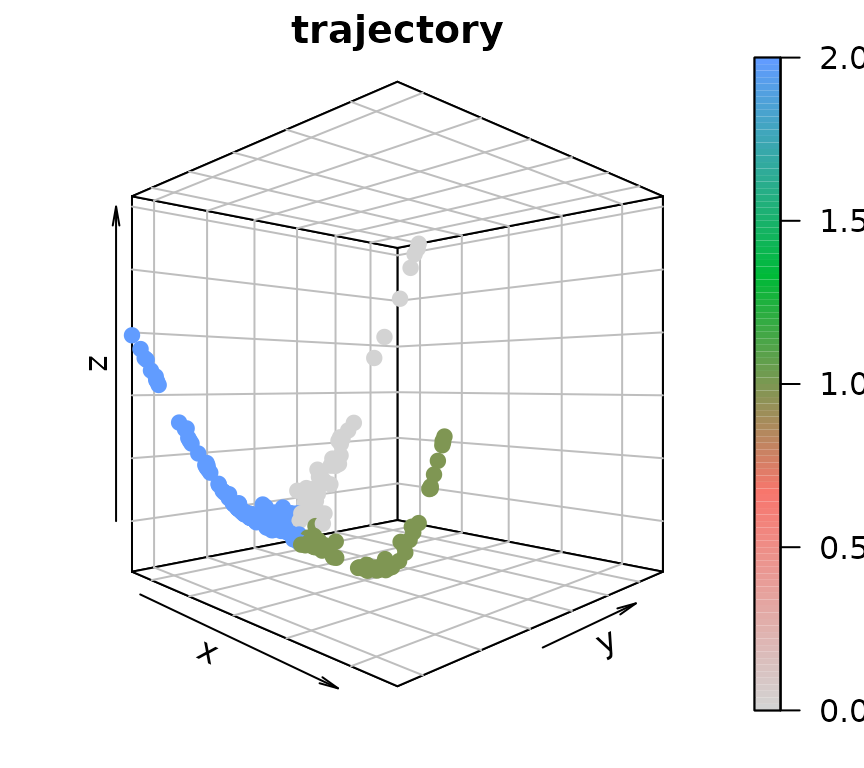
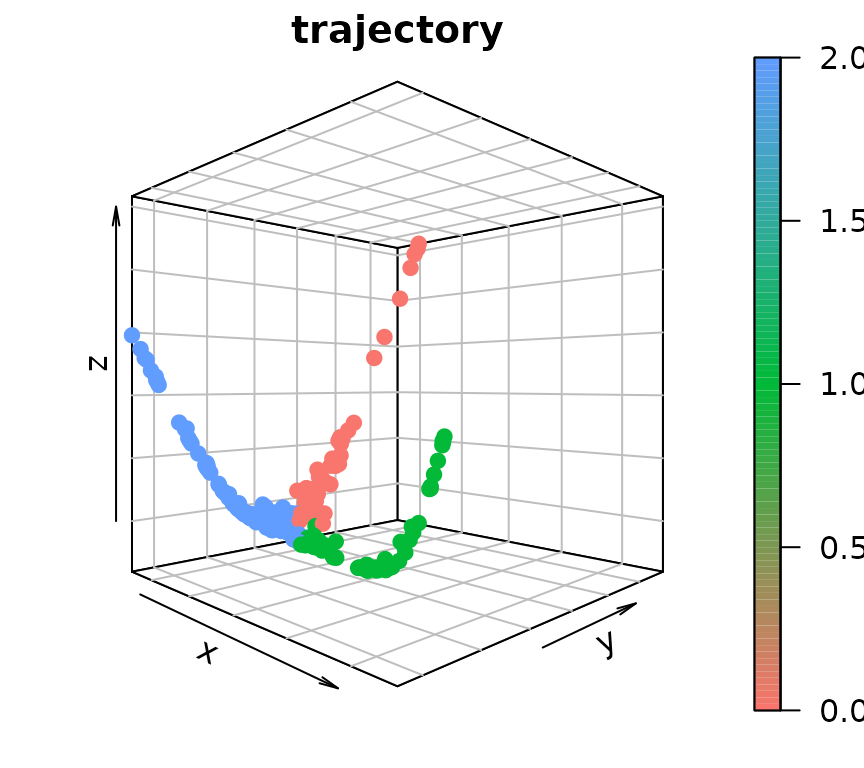
“update”

diff --git a/docs/articles/GeneTrajectory.html b/docs/articles/GeneTrajectory.html
@@ -141,7 +141,7 @@ R package which includes: library normalization; finding variable
 features; scaling; generating PCA embedding (and UMAP embedding for
 visualization).</p>
 <p>The precomplied Seurat object for this tutorial can be downloaded
-from <a href="https://figshare.com/articles/dataset/Processed_Seurat_objects_for_GeneTrajectory_inference_Gene_Trajectory_Inference_for_Single-cell_Data_by_Optimal_Transport_Metrics_/25243225" class="external-link">figshare</a></p>
+from <a href="https://figshare.com/articles/dataset/Processed_Seurat_objects_for_GeneTrajectory_inference_Gene_Trajectory_Inference_for_Single-cell_Data_by_Optimal_Transport_Metrics_/25243225" class="external-link">figshare</a>.</p>
 <div class="sourceCode" id="cb2"><pre class="downlit sourceCode r">
 <code class="sourceCode R"><span><span class="co">##### Import the tutorial dataset and take a preliminary visualization</span></span>
 <span><span class="va">data_S</span> <span class="op">&lt;-</span> <span class="fu"><a href="https://rdrr.io/r/base/readRDS.html" class="external-link">readRDS</a></span><span class="op">(</span><span class="st">"/banach1/rq25/GeneTrajectory_data/data_S_MM_v2.rds"</span><span class="op">)</span></span>
@@ -249,7 +249,7 @@ visualization can be done using the following code.</p>
 <span>          <span class="va">gene_embedding</span><span class="op">[</span>,<span class="fl">3</span><span class="op">]</span>,</span>
 <span>          bty <span class="op">=</span> <span class="st">"b2"</span>, colvar <span class="op">=</span> <span class="fu"><a href="https://rdrr.io/r/base/integer.html" class="external-link">as.integer</a></span><span class="op">(</span><span class="fu"><a href="https://rdrr.io/r/base/factor.html" class="external-link">as.factor</a></span><span class="op">(</span><span class="va">gene_trajectory</span><span class="op">$</span><span class="va">selected</span><span class="op">)</span><span class="op">)</span><span class="op">-</span><span class="fl">1</span>,</span>
 <span>          main <span class="op">=</span> <span class="st">"trajectory"</span>, pch <span class="op">=</span> <span class="fl">19</span>, cex <span class="op">=</span> <span class="fl">1</span>, theta <span class="op">=</span> <span class="fl">45</span>, phi <span class="op">=</span> <span class="fl">0</span>,</span>
-<span>          col <span class="op">=</span> <span class="fu"><a href="https://rdrr.io/pkg/plot3D/man/colors.html" class="external-link">ramp.col</a></span><span class="op">(</span><span class="fu"><a href="https://rdrr.io/r/base/c.html" class="external-link">c</a></span><span class="op">(</span><span class="st">"lightgray"</span>, <span class="fu"><a href="https://scales.r-lib.org/reference/hue_pal.html" class="external-link">hue_pal</a></span><span class="op">(</span><span class="op">)</span><span class="op">(</span><span class="fl">3</span><span class="op">)</span><span class="op">)</span><span class="op">)</span><span class="op">)</span></span></code></pre></div>
+<span>          col <span class="op">=</span> <span class="fu"><a href="https://rdrr.io/pkg/plot3D/man/colors.html" class="external-link">ramp.col</a></span><span class="op">(</span><span class="fu"><a href="https://rdrr.io/r/base/c.html" class="external-link">c</a></span><span class="op">(</span><span class="fu"><a href="https://scales.r-lib.org/reference/hue_pal.html" class="external-link">hue_pal</a></span><span class="op">(</span><span class="op">)</span><span class="op">(</span><span class="fl">3</span><span class="op">)</span><span class="op">)</span><span class="op">)</span><span class="op">)</span></span></code></pre></div>
 <p><img src="GeneTrajectory_files/figure-html/unnamed-chunk-7-1.png" width="432"></p>
 <div class="sourceCode" id="cb20"><pre class="downlit sourceCode r">
 <code class="sourceCode R"><span><span class="va">gene_list</span> <span class="op">&lt;-</span> <span class="fu"><a href="https://rdrr.io/r/base/list.html" class="external-link">list</a></span><span class="op">(</span><span class="op">)</span></span>
@@ -270,7 +270,19 @@ regions in the cell embedding. Here, we would recommend users to apply
 <a href="https://github.com/KlugerLab/ALRA/blob/master/README.md" class="external-link">ALRA</a>
 imputation to smooth the expression values for generating gene bin
 plots.</p>
-<p><img src="GeneTrajectory_files/figure-html/unnamed-chunk-8-1.png" width="1152"><img src="GeneTrajectory_files/figure-html/unnamed-chunk-8-2.png" width="1152"><img src="GeneTrajectory_files/figure-html/unnamed-chunk-8-3.png" width="1152"></p>
+<div class="sourceCode" id="cb21"><pre class="downlit sourceCode r">
+<code class="sourceCode R"><span><span class="va">data_S</span> <span class="op">&lt;-</span> <span class="fu"><a href="../reference/AddGeneBinScore.html">AddGeneBinScore</a></span><span class="op">(</span><span class="va">data_S</span>, <span class="va">gene_trajectory</span>, N.bin <span class="op">=</span> <span class="fl">5</span>, trajectories <span class="op">=</span> <span class="fl">1</span><span class="op">:</span><span class="fl">3</span>, assay <span class="op">=</span> <span class="st">"alra"</span>, reverse <span class="op">=</span> <span class="fu"><a href="https://rdrr.io/r/base/c.html" class="external-link">c</a></span><span class="op">(</span><span class="cn">F</span>, <span class="cn">F</span>, <span class="cn">T</span><span class="op">)</span><span class="op">)</span></span>
+<span><span class="fu"><a href="https://satijalab.org/seurat/reference/FeaturePlot.html" class="external-link">FeaturePlot</a></span><span class="op">(</span><span class="va">data_S</span>, pt.size <span class="op">=</span> <span class="fl">0.05</span>, features <span class="op">=</span> <span class="fu"><a href="https://rdrr.io/r/base/paste.html" class="external-link">paste0</a></span><span class="op">(</span><span class="st">"Trajectory"</span>,<span class="fl">1</span>,<span class="st">"_genes"</span>, <span class="fl">1</span><span class="op">:</span><span class="fl">5</span><span class="op">)</span>, ncol <span class="op">=</span> <span class="fl">5</span>, order <span class="op">=</span> <span class="cn">T</span><span class="op">)</span> <span class="op">&amp;</span></span>
+<span>  <span class="fu"><a href="https://ggplot2.tidyverse.org/reference/scale_gradient.html" class="external-link">scale_color_gradientn</a></span><span class="op">(</span>colors <span class="op">=</span> <span class="fu"><a href="https://rdrr.io/r/base/rev.html" class="external-link">rev</a></span><span class="op">(</span><span class="fu"><a href="https://scales.r-lib.org/reference/brewer_pal.html" class="external-link">brewer_pal</a></span><span class="op">(</span>palette <span class="op">=</span> <span class="st">"RdYlBu"</span><span class="op">)</span><span class="op">(</span><span class="fl">10</span><span class="op">)</span><span class="op">)</span><span class="op">)</span> <span class="op">&amp;</span> <span class="fu"><a href="https://satijalab.org/seurat/reference/SeuratTheme.html" class="external-link">NoLegend</a></span><span class="op">(</span><span class="op">)</span> <span class="op">&amp;</span> <span class="fu"><a href="https://satijalab.org/seurat/reference/SeuratTheme.html" class="external-link">NoAxes</a></span><span class="op">(</span><span class="op">)</span> <span class="op">&amp;</span> <span class="fu"><a href="https://ggplot2.tidyverse.org/reference/theme.html" class="external-link">theme</a></span><span class="op">(</span>title <span class="op">=</span> <span class="fu"><a href="https://ggplot2.tidyverse.org/reference/element.html" class="external-link">element_text</a></span><span class="op">(</span>size <span class="op">=</span> <span class="fl">8</span><span class="op">)</span><span class="op">)</span></span></code></pre></div>
+<p><img src="GeneTrajectory_files/figure-html/unnamed-chunk-8-1.png" width="1152"></p>
+<div class="sourceCode" id="cb22"><pre class="downlit sourceCode r">
+<code class="sourceCode R"><span><span class="fu"><a href="https://satijalab.org/seurat/reference/FeaturePlot.html" class="external-link">FeaturePlot</a></span><span class="op">(</span><span class="va">data_S</span>, pt.size <span class="op">=</span> <span class="fl">0.05</span>, features <span class="op">=</span> <span class="fu"><a href="https://rdrr.io/r/base/paste.html" class="external-link">paste0</a></span><span class="op">(</span><span class="st">"Trajectory"</span>,<span class="fl">2</span>,<span class="st">"_genes"</span>, <span class="fl">1</span><span class="op">:</span><span class="fl">5</span><span class="op">)</span>, ncol <span class="op">=</span> <span class="fl">5</span>, order <span class="op">=</span> <span class="cn">T</span><span class="op">)</span> <span class="op">&amp;</span></span>
+<span>  <span class="fu"><a href="https://ggplot2.tidyverse.org/reference/scale_gradient.html" class="external-link">scale_color_gradientn</a></span><span class="op">(</span>colors <span class="op">=</span> <span class="fu"><a href="https://rdrr.io/r/base/rev.html" class="external-link">rev</a></span><span class="op">(</span><span class="fu"><a href="https://scales.r-lib.org/reference/brewer_pal.html" class="external-link">brewer_pal</a></span><span class="op">(</span>palette <span class="op">=</span> <span class="st">"RdYlBu"</span><span class="op">)</span><span class="op">(</span><span class="fl">10</span><span class="op">)</span><span class="op">)</span><span class="op">)</span> <span class="op">&amp;</span> <span class="fu"><a href="https://satijalab.org/seurat/reference/SeuratTheme.html" class="external-link">NoLegend</a></span><span class="op">(</span><span class="op">)</span> <span class="op">&amp;</span> <span class="fu"><a href="https://satijalab.org/seurat/reference/SeuratTheme.html" class="external-link">NoAxes</a></span><span class="op">(</span><span class="op">)</span> <span class="op">&amp;</span> <span class="fu"><a href="https://ggplot2.tidyverse.org/reference/theme.html" class="external-link">theme</a></span><span class="op">(</span>title <span class="op">=</span> <span class="fu"><a href="https://ggplot2.tidyverse.org/reference/element.html" class="external-link">element_text</a></span><span class="op">(</span>size <span class="op">=</span> <span class="fl">8</span><span class="op">)</span><span class="op">)</span></span></code></pre></div>
+<p><img src="GeneTrajectory_files/figure-html/unnamed-chunk-8-2.png" width="1152"></p>
+<div class="sourceCode" id="cb23"><pre class="downlit sourceCode r">
+<code class="sourceCode R"><span><span class="fu"><a href="https://satijalab.org/seurat/reference/FeaturePlot.html" class="external-link">FeaturePlot</a></span><span class="op">(</span><span class="va">data_S</span>, pt.size <span class="op">=</span> <span class="fl">0.05</span>, features <span class="op">=</span> <span class="fu"><a href="https://rdrr.io/r/base/paste.html" class="external-link">paste0</a></span><span class="op">(</span><span class="st">"Trajectory"</span>,<span class="fl">3</span>,<span class="st">"_genes"</span>, <span class="fl">1</span><span class="op">:</span><span class="fl">5</span><span class="op">)</span>, ncol <span class="op">=</span> <span class="fl">5</span>, order <span class="op">=</span> <span class="cn">T</span><span class="op">)</span> <span class="op">&amp;</span></span>
+<span>  <span class="fu"><a href="https://ggplot2.tidyverse.org/reference/scale_gradient.html" class="external-link">scale_color_gradientn</a></span><span class="op">(</span>colors <span class="op">=</span> <span class="fu"><a href="https://rdrr.io/r/base/rev.html" class="external-link">rev</a></span><span class="op">(</span><span class="fu"><a href="https://scales.r-lib.org/reference/brewer_pal.html" class="external-link">brewer_pal</a></span><span class="op">(</span>palette <span class="op">=</span> <span class="st">"RdYlBu"</span><span class="op">)</span><span class="op">(</span><span class="fl">10</span><span class="op">)</span><span class="op">)</span><span class="op">)</span> <span class="op">&amp;</span> <span class="fu"><a href="https://satijalab.org/seurat/reference/SeuratTheme.html" class="external-link">NoLegend</a></span><span class="op">(</span><span class="op">)</span> <span class="op">&amp;</span> <span class="fu"><a href="https://satijalab.org/seurat/reference/SeuratTheme.html" class="external-link">NoAxes</a></span><span class="op">(</span><span class="op">)</span> <span class="op">&amp;</span> <span class="fu"><a href="https://ggplot2.tidyverse.org/reference/theme.html" class="external-link">theme</a></span><span class="op">(</span>title <span class="op">=</span> <span class="fu"><a href="https://ggplot2.tidyverse.org/reference/element.html" class="external-link">element_text</a></span><span class="op">(</span>size <span class="op">=</span> <span class="fl">8</span><span class="op">)</span><span class="op">)</span></span></code></pre></div>
+<p><img src="GeneTrajectory_files/figure-html/unnamed-chunk-8-3.png" width="1152"></p>
 </div>
   </div>
 
